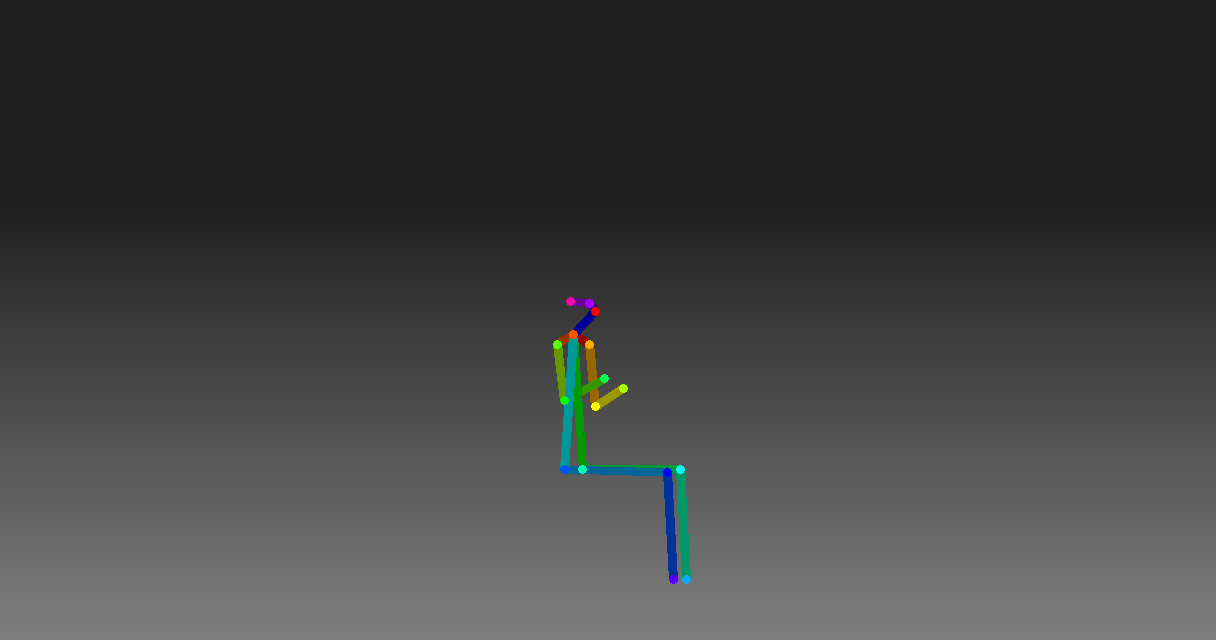
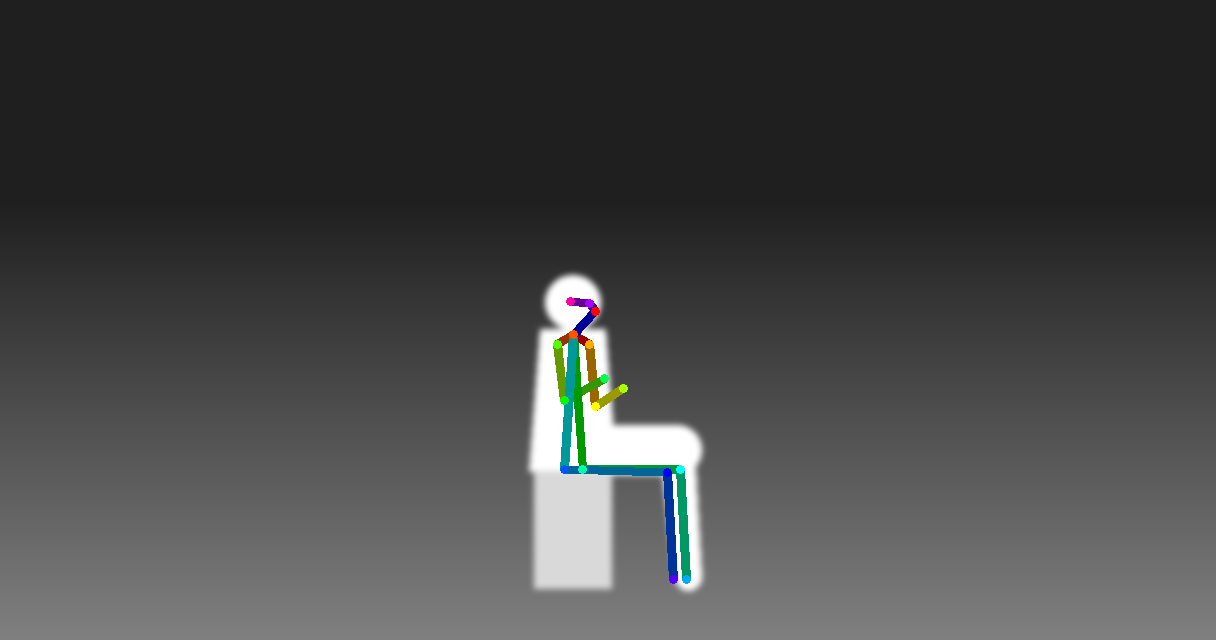
fix(canon): task 424 다시 실행 S1 — 스텝별 1단계 가이드에 앉은 뼈대 인물의 몸을 남김(후광 원인)
- make_pose_only(방 바탕): 앉은 꼴(sit) 뼈대 인물은 걸상째 깊이 몸을 빼지 않음 — 빼면 사람 뒤 벽 자리가 비어 후광(곁 장면 4/8)
- 서 있는 뼈대 인물은 그대로(기브아 f6) · 시험 test_seated_pose_body_in_stage_one · 원장 pose-hold note · 곁 장면 가이드 다시 그림

Claude-Session: https://claude.ai/code/session_017xfXg4nsVPZYcUmVMvn4aM

Changed region(s): [[0.4062, 0.4062, 0.5938, 0.9375]]

diff --git a/scripts/canon/test_scene_rules.py b/scripts/canon/test_scene_rules.py
@@ -1176,6 +1176,25 @@ class PoseHoldGesture(unittest.TestCase):
         plain["guide"].pop("pose"), plain["guide"].pop("split")
         self.assertEqual(M.make(s, 2).tobytes(), M.make(plain).tobytes())
 
+    def test_seated_pose_body_in_stage_one(self):
+        """task 424 — 스텝별 1단계(방 바탕 + 뼈대)에도 앉은 뼈대 인물은 sit 깊이 몸: 빼면 사람 뒤 벽 자리가 비어 후광(곁 장면 4/8).
+        서 있는 뼈대 인물은 그대로 뺌(기브아 f6 — 깊이와 섞이면 뼈대가 약함)."""
+        import sys
+        import derive_scene as ds
+        sys.path.insert(0, os.path.join(HERE, "batch"))
+        import make_guide as M
+        s = ds.load("authored-solomon-jerusalem-birth-inset")
+        x0, y0, x1, y1 = s["regions"]["bathsheba"]
+        g = M.make(s, 1).convert("L")
+        y = int((y0 + 0.8 * (y1 - y0)) * M.H)
+        floor = g.getpixel((int(0.1 * M.W), y))                  # 같은 높이 빈 바닥(몸을 빼면 걸상 자리도 이 값 — 옛 동작 104)
+        seat = g.getpixel((int((x0 + x1) / 2 * M.W), y))         # 걸상 높이 몸 가운데(뼈대 선 밖)
+        self.assertGreater(seat, floor + 50)
+        t = ds.load("authored-solomon-jerusalem-two-mothers")
+        a0, b0, a1, b1 = t["regions"]["mother-b"]
+        h = M.make(t, 1).convert("L")
+        self.assertLess(h.getpixel((int((a0 + a1) / 2 * M.W) + 3, int((b0 + 0.6 * (b1 - b0)) * M.H))), 120)
+
 
 class SitFacing(unittest.TestCase):
     """task 417 — make_guide sit 꼴은 인물 screen_facing을 따름(오른쪽이면 상자 안 좌우 대칭)."""

diff --git a/scripts/canon/batch/make_guide.py b/scripts/canon/batch/make_guide.py
@@ -365,8 +365,8 @@ def make_pose_only(spec, backdrop=False):
         s2 = copy.deepcopy(spec)
         g2 = s2["guide"]
         g2.pop("split", None), g2.pop("control", None)
-        for k in [k for k, v in g2["shape"].items() if str(v).startswith("person")] + list(g2.get("pose", {})):
-            g2["depth"].pop(k, None)
+        for k in [k for k, v in g2["shape"].items() if str(v).startswith("person")] + [k for k in g2.get("pose", {}) if g2["shape"].get(k) != "sit"]:
+            g2["depth"].pop(k, None)   # task 424: 앉은 뼈대 인물은 걸상째 sit 깊이 몸을 남김 — 빼면 사람 뒤 벽 자리가 비어 후광(곁 장면 4/8)
         g2["pose"] = {}
         out = make(s2)
         for k, name in sorted(g.get("pose", {}).items()):

diff --git a/scripts/canon/notes/RECHECK.md b/scripts/canon/notes/RECHECK.md
@@ -12,7 +12,7 @@
 ## 명세 재검 — 전 명세 × 명세·파생 함수 규칙
 
 <!-- recheck:specs:begin -->
-원장 판 `ecd4c982c439` · 토큰 검사 venv314 · 명세 38
+원장 판 `a7d77218da31` · 토큰 검사 venv314 · 명세 38
 
 | 규칙 | 층 | 원래 범위 | 통과 | 실패 | 못 잼 | 통과율 |
 |---|---|---|---|---|---|---|
